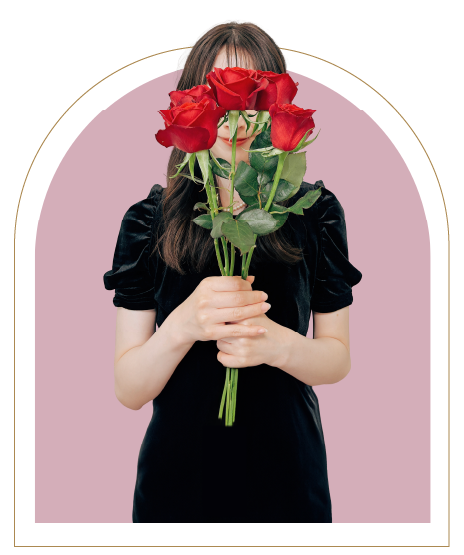
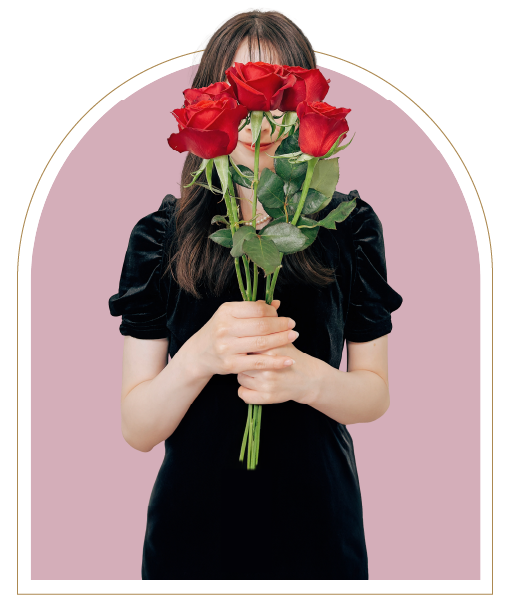
テキスト修正

diff --git a/hikaru_portfolio/about.html b/hikaru_portfolio/about.html
@@ -68,11 +68,7 @@
       <div class="scroll_up">
         <div class="profile_container">
           <h1 class="name">HIKARU</h1>
-          <p class="profile_text">1990年生まれ、神奈川県在住。猫好きな30代です。<br>
-            現職である行政機関で広報誌作成を5年間経験。毎月の広報誌の作成では、企画・取材・撮影・作成とゼロから広報誌としてカタチになるまでの一連の業務を担当していました。<br>
-            お堅く難しい情報や地域の魅力…様々な情報を老若男女問わず、多くの人に伝えることが求められる現場で、伝わる方法を試行錯誤した結果、同僚や地域の人のお力添えもあり県の広報コンクールでは毎年受賞、全国のコンクールでも受賞することができました。<br>
-            そんなデザインのチカラに魅せられて、気が付けば本棚はデザインの参考図書にあふれていました。その後、2024年から本格的にデザインを学びたく、デザスタの受講を開始。<br>
-            発信者の思いを伝えるのはもちろん、それを受け取る人の知りたいモノ・コトのニーズにも応えられるデザインをめざしています。
+          <p class="profile_text"><span>1990年生まれ、神奈川県在住。猫好きな30代です。</span><span>現職である行政機関で広報誌作成を5年間経験。毎月の広報誌の作成では、企画・取材・撮影・作成とゼロから広報誌としてカタチになるまでの一連の業務を担当していました。</span><span>お堅く難しい情報や地域の魅力…様々な情報を老若男女問わず、多くの人に伝えることが求められる現場で、伝わる方法を試行錯誤した結果、同僚や地域の人のお力添えもあり県の広報コンクールでは毎年受賞、全国のコンクールでも受賞することができました。</span><span>そんなデザインのチカラに魅せられて、気が付けば本棚はデザインの参考図書にあふれていました。</span><span>その後、2024年から本格的にデザインを学びたく、デザスタの受講を開始。</span><span>発信者の思いを伝えるのはもちろん、それを受け取る人の知りたいモノ・コトのニーズにも応えられるデザインをめざしています。</span>
           </p>
           <div class="photo">
             <img class="image" src="./img_pc/about_cat1.png" alt="愛猫の写真1">

diff --git a/hikaru_portfolio/index.html b/hikaru_portfolio/index.html
@@ -84,11 +84,7 @@
           <div class="about_image effect-fade"><img src="./img_pc/about_myphoto1.png" alt="自己紹介写真1"></div>
           <div>
             <h3 class="effect-fade">HIKARU</h3>
-            <p class="effect-fade">1990年生まれ、神奈川県在住。猫好きの30代です。<br>
-            大学卒業後、行政機関に勤務。Webデザインを学ぶきっかけとなった広報誌作成を5年間経験しました。<br>
-            情報を整理して分かりやすく表現することが楽しく、気が付けば本棚がデザインの参考図書一色に…。<br>
-            本格的にデザインの勉強をしたく、デザスタの受講を開始。<br>
-            日々、スキルアップに励み中です。
+            <p class="effect-fade"><span>1990年生まれ、神奈川県在住。猫好きの30代です。</span><span>大学卒業後、行政機関に勤務。Webデザインを学ぶきっかけとなった広報誌作成を5年間経験しました。</span><span>情報を整理して分かりやすく表現することが楽しく、気が付けば本棚がデザインの参考図書一色に…。</span><span>本格的にデザインの勉強をしたく、デザスタの受講を開始。日々、スキルアップに励み中です。</span>
             </p>
           </div>
         </div>

diff --git a/hikaru_portfolio/css/style2.css b/hikaru_portfolio/css/style2.css
@@ -17,7 +17,7 @@
 }
 .profile_image_myphoto img{
   display: block;
-  max-width: 60%;
+  max-width: 80%;
   margin: 0 auto;
   height: 100%;
   width: auto;
@@ -93,6 +93,9 @@
   transform: translateY(0);
   opacity: 1.0;
 }
+.profile_container span {
+  display: inline-block;
+} 
 /* SKILL */
 #skill_block ul {
   display: flex;
@@ -237,7 +240,7 @@
 }
 @media screen and (max-width:767px) {
   .profile_container {
-    width: 82.666%;
+    width: 80%;
   }
   .profile_container h1 {
     margin: 100px auto 40px;

diff --git a/hikaru_portfolio/css/style.css b/hikaru_portfolio/css/style.css
@@ -71,6 +71,7 @@
   display: flex;
   gap: 80px;
   align-items: center;
+  margin: 0 10px;
 }
 #about h3 {
   margin-bottom: 50px;
@@ -80,6 +81,9 @@
   max-width: 450px;
   line-height: 2.5;
   font-size: 16px;
+}
+.about span {
+  display: inline-block;
 }
 .effect-fade {
   opacity: 0;

diff --git a/hikaru_portfolio/css/common.css b/hikaru_portfolio/css/common.css
@@ -11,7 +11,9 @@ small,
 .strength_circle_sp li,
 .works_title p,
 .works_title h1,
-.works_inner h2 {
+.works_inner h2,
+.profile_container p span,
+.about span {
   font-family: "Noto Sans JP", sans-serif;
   font-optical-sizing: auto;
   font-weight: 400;
